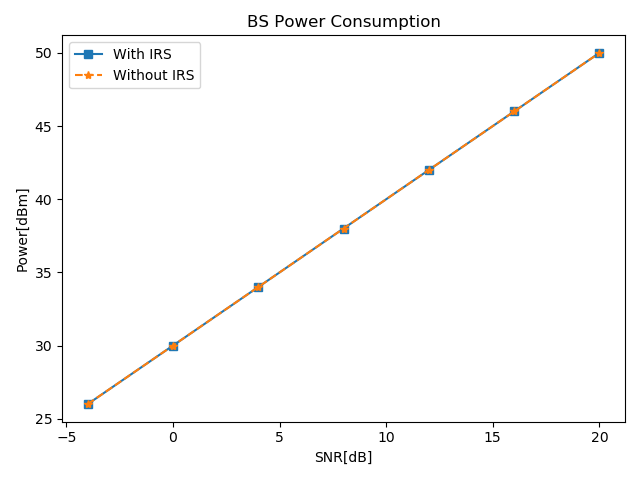
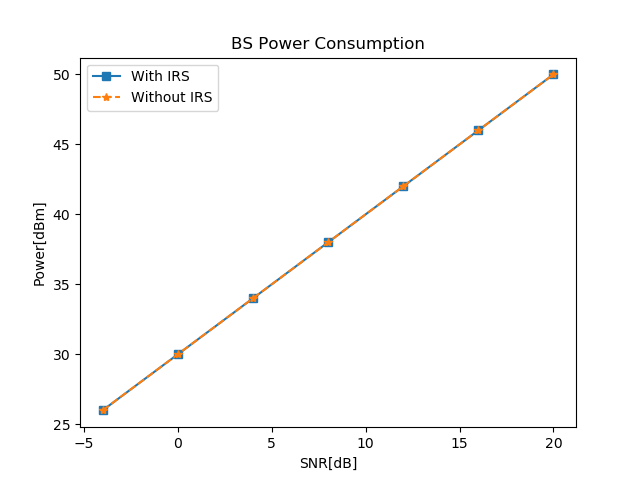
simulation 1

diff --git a/main.py b/main.py
@@ -73,7 +73,7 @@ if __name__ == '__main__':
         plt.ylabel(result.ylabel)
         plt.title(result.title)
         plt.legend()
-        plt.show()
+        #plt.show()
         fig.savefig(result.title + str(gamma))
 
 
